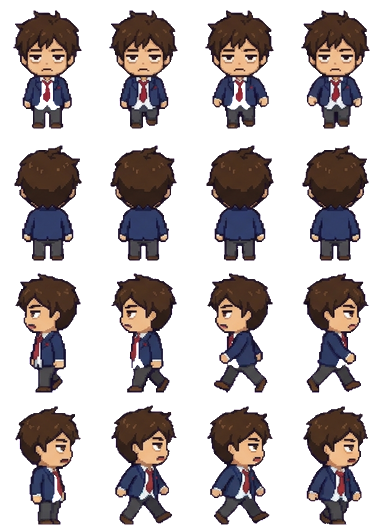
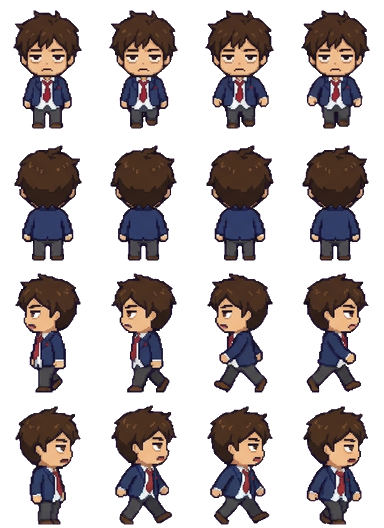
쿈 흰 셔츠 누끼 복원 (몸 안에 갇힌 구멍 채우기)
Claude-Session: https://claude.ai/code/session_01KaPsBYLrtbRfMYNG2xeBCK

diff --git a/docs/app.js b/docs/app.js
@@ -48,7 +48,7 @@ function spr(cat, k, col, sc) {
   return `<div class="clip" style="width:${it[2] * sc}px;height:${it[3] * sc}px;POS"><img class="px" src="assets/decor/${cat}.png" alt="" style="width:${S.sw * sc}px;height:${S.sh * sc}px;margin-left:${-col * S.cw * sc}px;margin-top:${-i * S.ch * sc}px"></div>`;
 }
 const icon = (k, sz) => `<span class="itm" style="width:${sz}px;height:${sz}px"><img class="px" src="assets/ui/items.png" alt="" style="width:${IT.length * sz}px;height:${sz}px;margin-left:${-ITM[k].i * sz}px"></span>`;
-const face = (id, w) => { const s = w / 96; return `<img class="px" src="assets/ch/${id}.webp?v=10" alt="" style="position:absolute;width:${384 * s}px;height:${528 * s}px;left:${-(96 * s - w) / 2}px;top:0;max-width:none">`; };
+const face = (id, w) => { const s = w / 96; return `<img class="px" src="assets/ch/${id}.webp?v=11" alt="" style="position:absolute;width:${384 * s}px;height:${528 * s}px;left:${-(96 * s - w) / 2}px;top:0;max-width:none">`; };
 
 // ---------- 저장 ----------
 let fb = null, user = null, S = null, saveT = null;
@@ -115,7 +115,7 @@ function sleepHTML(id, r) {
   const pos = r.a && r.a[0] === 'bed' ? 'left:3%;bottom:20%' : r.b && r.b[0] === 'bed' ? 'right:3%;bottom:20%' : 'left:calc(50% - 44px);bottom:6%';
   const s = 36 / 96;
   return `<div style="position:absolute;width:88px;height:56px;${pos};z-index:5"><div style="position:absolute;inset:0;filter:brightness(.22)">
-    <div style="position:absolute;left:11px;top:1px;width:36px;height:50px;overflow:hidden;transform:rotate(-90deg)"><img class="px" src="assets/ch/${id}.webp?v=10" alt="" style="width:${384 * s}px;height:${528 * s}px;max-width:none;margin-top:${-132 * s}px"></div>
+    <div style="position:absolute;left:11px;top:1px;width:36px;height:50px;overflow:hidden;transform:rotate(-90deg)"><img class="px" src="assets/ch/${id}.webp?v=11" alt="" style="width:${384 * s}px;height:${528 * s}px;max-width:none;margin-top:${-132 * s}px"></div>
     <div style="position:absolute;left:19px;top:19px;width:67px;height:29px;border:2px solid var(--ink);border-radius:8px 6px 4px 4px;background:#8ccff5;background-image:repeating-linear-gradient(90deg,transparent 0 10px,rgba(255,255,255,.5) 10px 13px)"></div></div>
     <span class="emo" style="left:8px;top:-22px;color:#5b6bd6">Z z z</span></div>`;
 }
@@ -125,7 +125,7 @@ function roomHTML(id, o, scale) {
     <div class="floor" style="background-color:${PAL[r.fc][1]};background-image:${tileUrl('floor', r.fl)}"></div>
     ${slot('deco', r.dc, 'left:6%;top:6%')}${slot('furn', r.a, 'left:3%;bottom:20%')}${slot('furn', r.b, 'right:3%;bottom:20%')}${slot('prop', r.pr, 'left:28%;bottom:4%;z-index:2')}
     ${id && o.sleeping ? sleepHTML(id, r) : ''}${id && o.job ? `<div style="position:absolute;left:50%;top:38%;transform:translateX(-50%);z-index:5;background:#fff;border:3px solid var(--ink);border-radius:10px;padding:6px 10px;font-size:11px;text-align:center;line-height:1.5"><img src="assets/ui/ic_job.png" alt="" style="width:18px;vertical-align:-4px"> ${esc(JOB_NAME[id])} 알바 중<br><b id="jobleft">${timeLeft(o.job.until)}</b></div>` : ''}
-    ${id ? `<div class="shadow" id="shd"></div><div class="man" id="man"><img class="px" src="assets/ch/${id}.webp?v=10" alt="${esc(nameOf(id))}"></div><span class="emo" id="emo" hidden></span><span class="mumble" id="mum" hidden></span>` : ''}
+    ${id ? `<div class="shadow" id="shd"></div><div class="man" id="man"><img class="px" src="assets/ch/${id}.webp?v=11" alt="${esc(nameOf(id))}"></div><span class="emo" id="emo" hidden></span><span class="mumble" id="mum" hidden></span>` : ''}
     ${o.sleeping ? '<div class="night"></div>' : ''}
   </div>`;
 }

diff --git a/docs/index.html b/docs/index.html
@@ -12,6 +12,6 @@
 <main id="app" aria-live="polite"></main>
 <div id="toast" role="status" hidden></div>
 <script src="firebase-config.js?v=3"></script>
-<script type="module" src="app.js?v=17"></script>
+<script type="module" src="app.js?v=18"></script>
 </body>
 </html>

diff --git a/tk_chars.py b/tk_chars.py
@@ -33,7 +33,7 @@ SIDE = {
     'izumi':          dict(left='mirror', right=[(2, 1), (2, 2), (3, 2), (3, 3)], fill_inside=True, phase=False, nofill=True),
     'ponytail':       dict(left=[(3, 0), (3, 1), (3, 2), (3, 3)], right=[(2, 1), (2, 2), (2, 3), (2, 4)]),
     'spiky':          dict(left=[(3, 0), (3, 1), (3, 2), (3, 3)], right=[(2, 1), (2, 2), (2, 3), (2, 4)], fill_frame=3),
-    'kyon':           dict(left=[(3, 0), (3, 1), (3, 2), (3, 3)], right=[(2, 1), (2, 2), (2, 3), (2, 4)]),
+    'kyon':           dict(left=[(3, 0), (3, 1), (3, 2), (3, 3)], right=[(2, 1), (2, 2), (2, 3), (2, 4)], fill_frame=9),
     'chiro':          dict(left=[(2, 0), (2, 1), (3, 1), (3, 2)], right=[(2, 2), (2, 3), (2, 4), (3, 3)]),
     'saiki':          dict(left=[(2, 1), (2, 2), (2, 3), (2, 4)], right=None),
     'nozaki':         dict(left=[(3, 0), (3, 1), (3, 2)], right=[(2, 0), (2, 1), (2, 3), (2, 4)]),
@@ -173,6 +173,18 @@ def extract(path, fill_inside=False, fill_frame=0, phase=False, nofill=False, ou
                 r = hl == i; n = r.sum()
                 if np.where(r)[0].min() > (r.shape[0]) * .62: continue   # 다리 사이 틈은 채우지 않아요
                 if g[r].sum() < max(2, n * .04) and (w[r].sum() < n * .9 or n < 400 * S * S or fill_frame): sub = sub | r
+                elif fill_frame:   # 체크무늬(회색 칸)가 섞인 덩어리여도, 회색 칸에서 멀리 떨어진 안쪽(셔츠 등)만 살려요
+                    far = r & ~ndimage.binary_dilation(g & r, iterations=int(13 * S))
+                    fl, fn = ndimage.label(far)
+                    for j in range(1, fn + 1):
+                        q = fl == j
+                        if q.sum() > 25 and (ndimage.binary_dilation(q, iterations=2) & sub).any(): sub = sub | q
+            if fill_frame:   # 몸 안에 완전히 갇힌 작은 구멍(재킷 안 셔츠 등)은 색과 상관없이 채워요
+                th = ndimage.binary_fill_holes(ndimage.binary_closing(sub, iterations=2)) & ~sub
+                tl, tn = ndimage.label(th)
+                for j2 in range(1, tn + 1):
+                    q = tl == j2
+                    if q.sum() < sub.sum() * .12: sub = sub | q
             m = m.copy(); m[bb] = sub
         if P:   # 이 프레임 주변 배경으로 체크 격자 위치를 맞춘 뒤, 격자 색과 안 맞는 픽셀(흰 셔츠 등)을 되살려요
             ys, xs = np.where(m); y0, y1, x0, x1 = ys.min(), ys.max() + 1, xs.min(), xs.max() + 1
@@ -396,7 +408,7 @@ def build():
             a &= ~kill
         # 배경에 닿은 작은 밝은 덩어리(흰 점·삐죽한 조각)는 어디에 있든 지워요. 셔츠·날개 같은 큰 흰 면은 그대로
         for _ in range(2):
-            bgm = ~a; touch = ndimage.binary_dilation(bgm, iterations=1)
+            outside = ndimage.binary_fill_holes(a) == False; touch = ndimage.binary_dilation(outside, iterations=1)
             ll, ln = ndimage.label(light & a)
             if ln:
                 sz = ndimage.sum(np.ones_like(ll), ll, range(1, ln + 1)); tc = ndimage.maximum(touch, ll, range(1, ln + 1))
